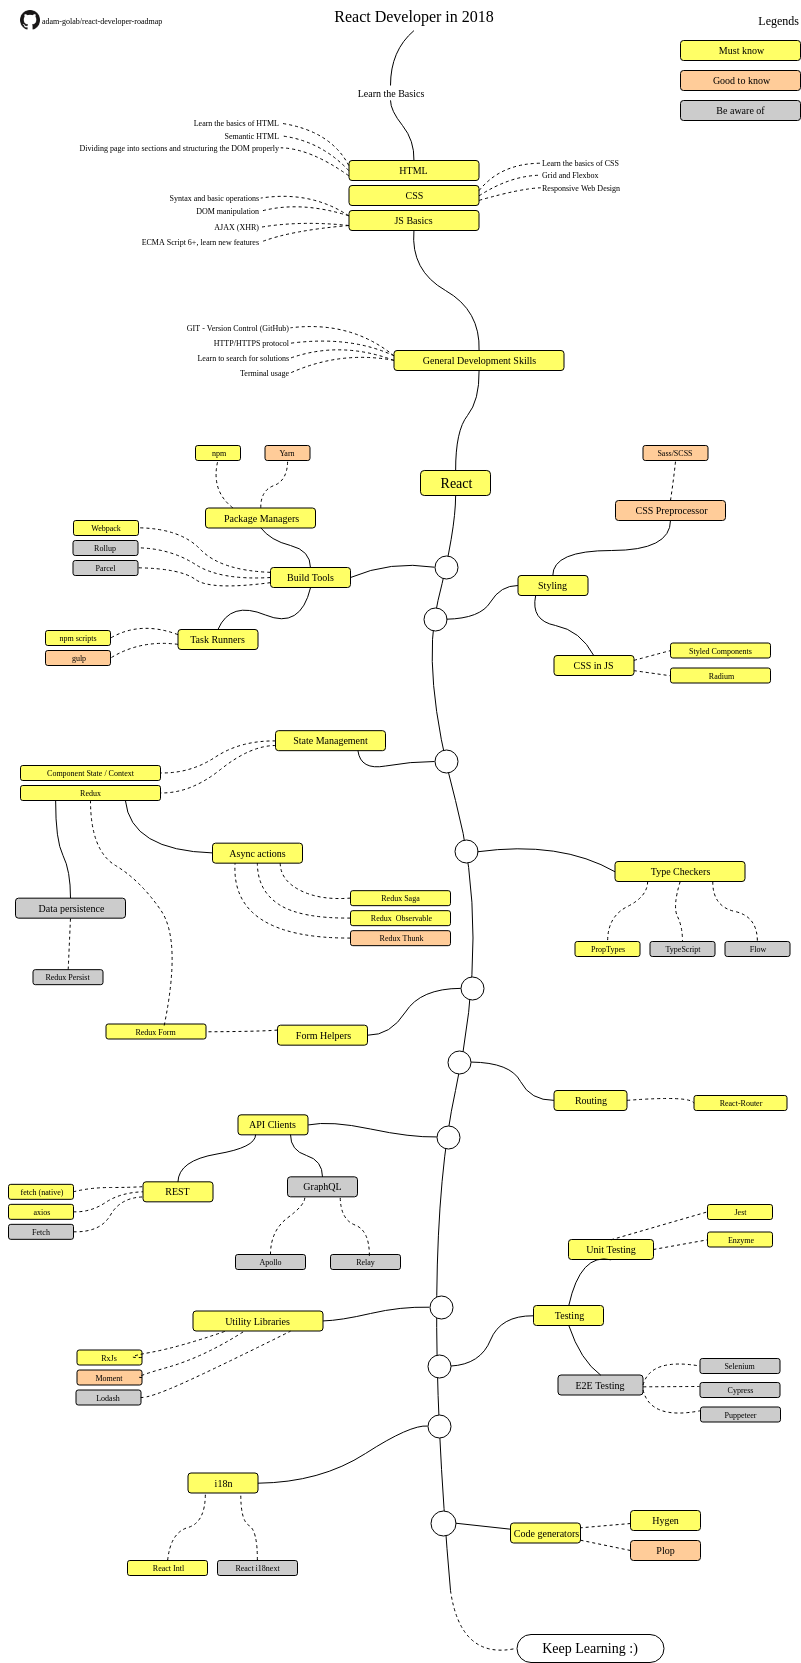
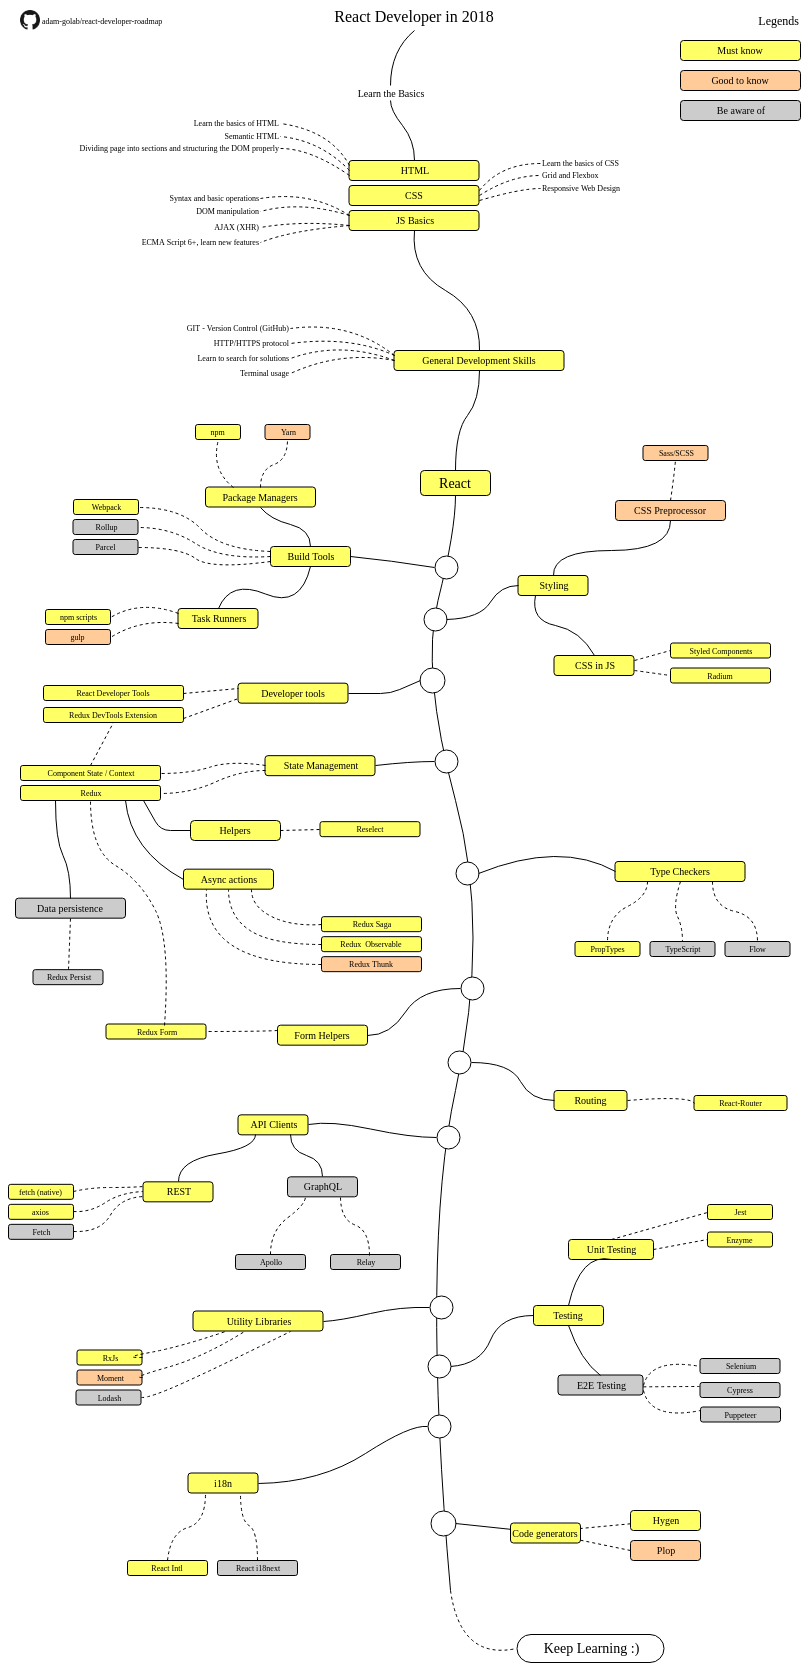
Added dev tools and reselect

diff --git a/README.md b/README.md
@@ -55,29 +55,34 @@ The purpose of this roadmap is to give you an idea about the landscape. The road
             * [Redux Saga](https://redux-saga.js.org/)
             * [Redux Observable](https://redux-observable.js.org)
             * [Redux Thunk](https://github.com/reduxjs/redux-thunk)
-        2. Data persistence
+        2. Helpers
+            * [Reselect](https://github.com/reduxjs/reselect)
+        3. Data persistence
             * [Redux Persist](https://github.com/rt2zz/redux-persist)
-        3. [Redux Form](https://redux-form.com)
-7. Type Checkers
+        4. [Redux Form](https://redux-form.com)
+7. Developer tools
+    1. [React Developer Tools](https://github.com/facebook/react-devtools)
+    2. [Redux DevTools Extension](https://github.com/zalmoxisus/redux-devtools-extension)
+8. Type Checkers
     * [PropTypes](https://reactjs.org/docs/typechecking-with-proptypes.html)
     * [TypeScript](https://www.typescriptlang.org/)
     * [Flow](https://flow.org/en/)
-8. Form Helpers
+9. Form Helpers
     * [Redux Form](https://redux-form.com)
-9. Routing
+10. Routing
     * [React-Router](https://reacttraining.com/react-router/)
-10. API Clients
+11. API Clients
     1. REST
         * [Fetch](https://developer.mozilla.org/en-US/docs/Web/API/Fetch_API)
         * [axios](https://github.com/axios/axios)
     2. GraphQL
         * [Apollo](https://www.apollographql.com/docs/react/)
         * [Relay](https://facebook.github.io/relay/)
-11. Utility Libraries
+12. Utility Libraries
     * [RxJS](http://reactivex.io/)
     * [Moment](https://momentjs.com/)
     * [Lodash](https://lodash.com/)
-12. Testing
+13. Testing
     1. Unit Testing
         * [Jest](https://facebook.github.io/jest/)
         * [Enzyme](http://airbnb.io/enzyme/)
@@ -85,10 +90,10 @@ The purpose of this roadmap is to give you an idea about the landscape. The road
         * [Selenium](https://www.seleniumhq.org/), [Webdriver](http://webdriver.io/)
         * [Cypress](https://cypress.io/)
         * [Puppeteer](https://pptr.dev/)
-13. Internationalization
+14. Internationalization
     * [React Intl](https://github.com/yahoo/react-intl)
     * [React i18next](https://react.i18next.com/)
-14. Code generators
+15. Code generators
     * [Hygen](https://www.hygen.io/)
     * [Plop](https://plopjs.com/)
 
